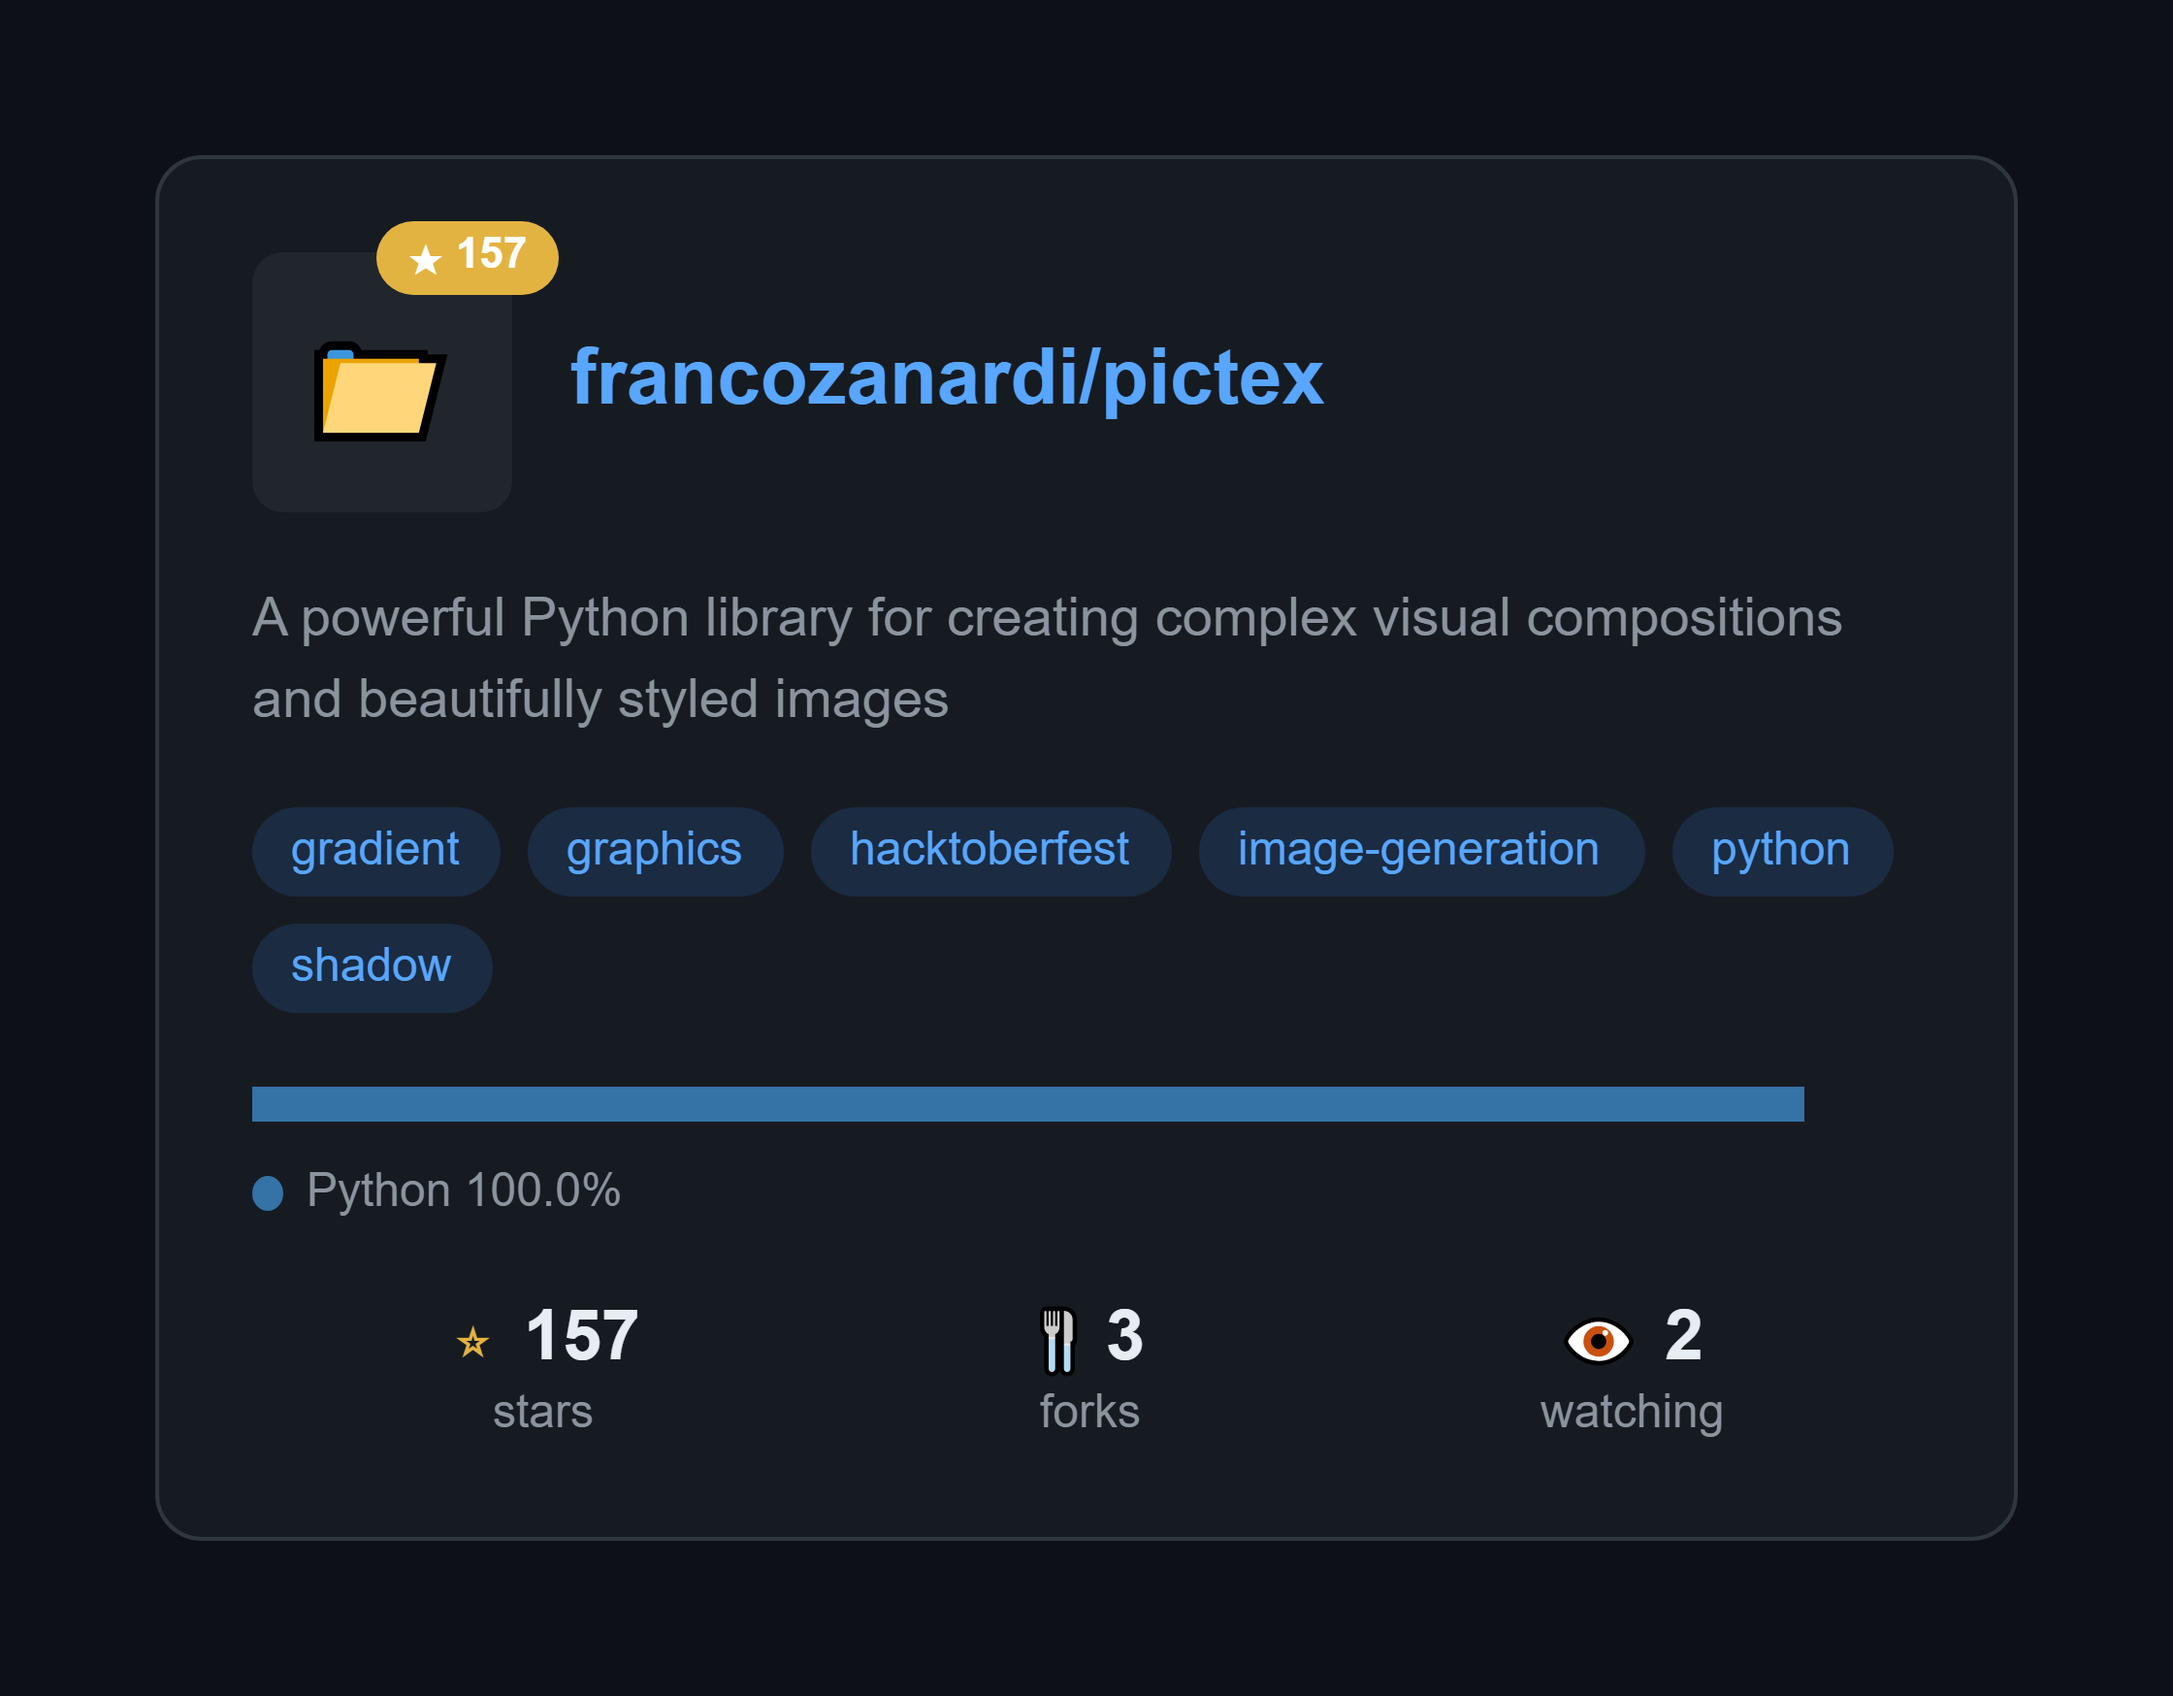
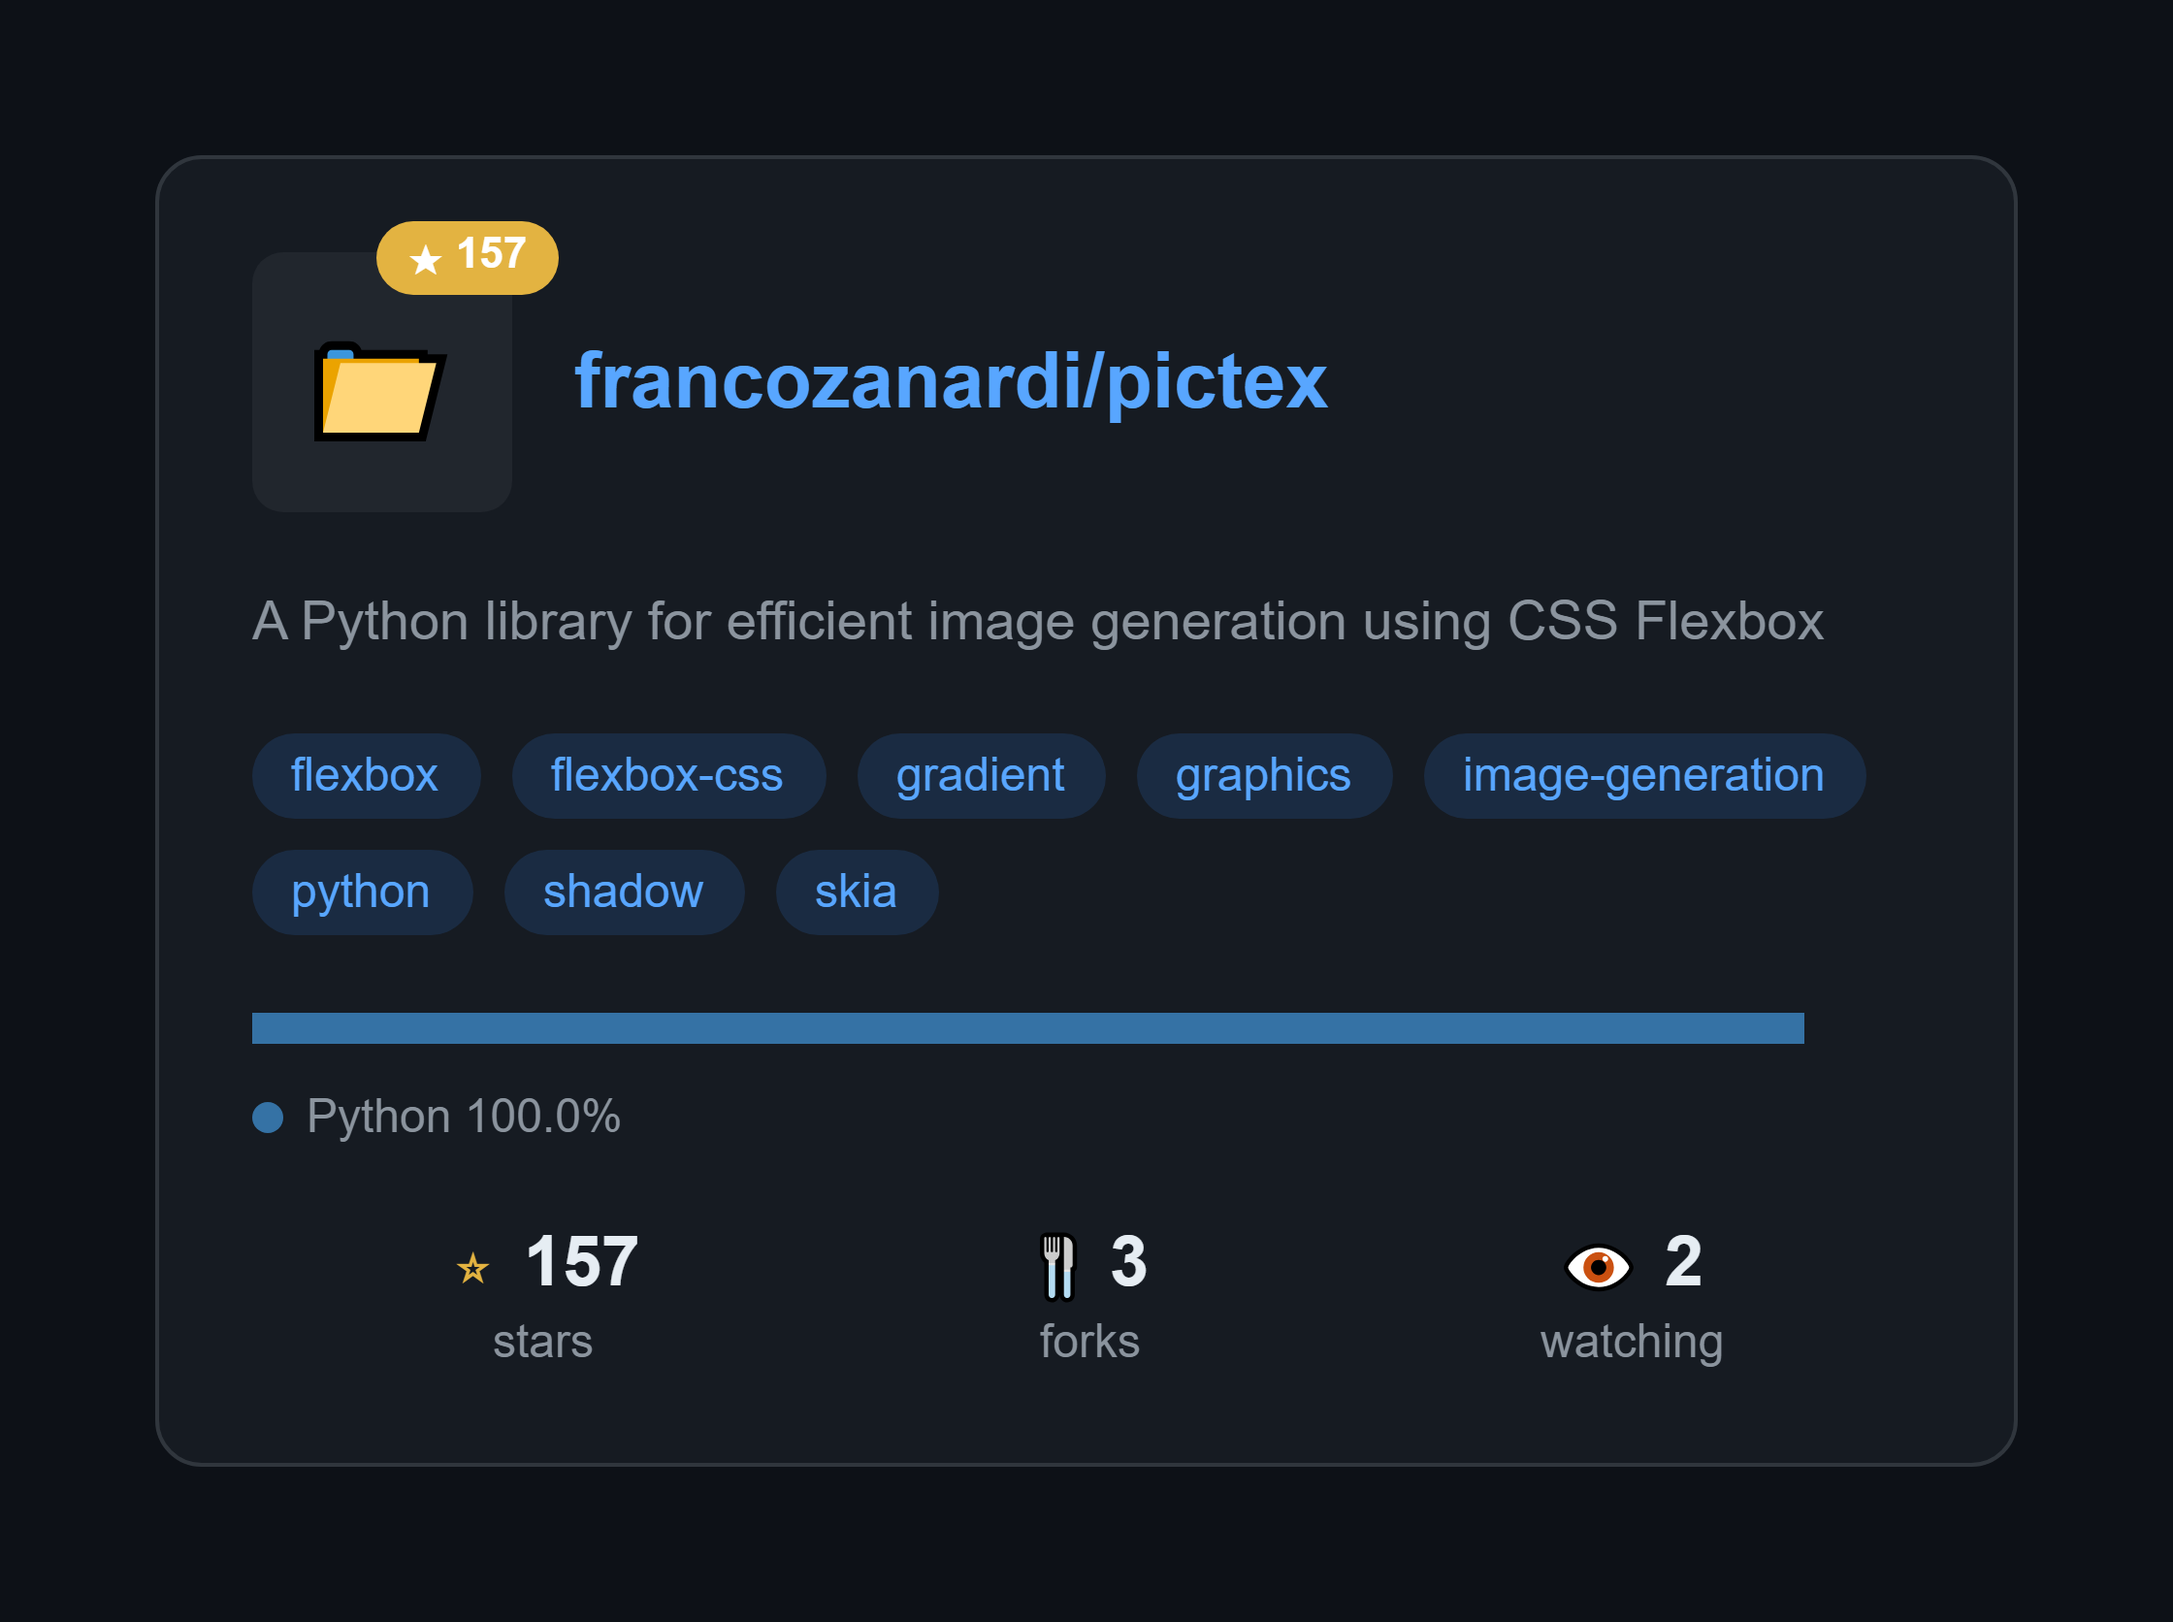
docs: clarify position API changes

diff --git a/examples/github_card/github_card.py b/examples/github_card/github_card.py
@@ -19,11 +19,7 @@ REPO = "francozanardi/pictex"
 def fetch_repo_data(repo: str) -> dict:
     """Fetch repository data from GitHub API (no auth needed for public repos)"""
     base_url = f"https://api.github.com/repos/{repo}"
-    
-    # Get repo info
     repo_data = requests.get(base_url).json()
-    
-    # Get languages
     languages = requests.get(f"{base_url}/languages").json()
     
     return {
@@ -33,7 +29,7 @@ def fetch_repo_data(repo: str) -> dict:
         "stars": repo_data.get("stargazers_count", 0),
         "forks": repo_data.get("forks_count", 0),
         "watchers": repo_data.get("subscribers_count", 0),
-        "topics": repo_data.get("topics", [])[:6],  # Limit to 6 topics
+        "topics": repo_data.get("topics", [])[:8],  # Limit to 8 topics
         "languages": languages,
         "owner_avatar": repo_data.get("owner", {}).get("avatar_url", ""),
     }
@@ -125,7 +121,6 @@ def create_language_legend(languages: dict) -> Row:
         
         items.append(Row(dot, label).align_items("center").gap(6))
     
-    # flex_wrap() for responsive layout
     return Row(*items).gap(16).flex_wrap("wrap")
 
 def create_stat(icon: str, value: str, label: str, icon_color: str = None) -> Column:
@@ -157,7 +152,6 @@ repo_icon = (
     .border_radius(8)
 )
 
-# Star badge on repo icon (absolute_position - parent relative)
 star_badge = (
     Text(f"★ {format_number(data['stars'])}")
     .font_size(11)
@@ -180,7 +174,6 @@ repo_name = (
 
 header = Row(repo_icon_with_badge, repo_name).align_items("center").gap(16)
 
-# Description (flex_grow to fill available space)
 description = (
     Text(data["description"] or "No description")
     .font_size(14)
@@ -188,26 +181,22 @@ description = (
     .line_height(1.5)
 )
 
-# Topics with flex_wrap
 topics_row = Row()
 if data["topics"]:
     topic_tags = [create_topic_tag(t) for t in data["topics"]]
     topics_row = Row(*topic_tags).gap(8).flex_wrap("wrap")
 
-# Language bar
 lang_section = Column(
     create_language_bar(data["languages"]),
     create_language_legend(data["languages"])
 ).gap(12 if data["languages"] else 0)
 
-# Stats row (needs width for justify_content to work)
 stats_row = Row(
     create_stat("⭐", format_number(data["stars"]), "stars", COLORS["star"]),
     create_stat("🍴", format_number(data["forks"]), "forks"),
     create_stat("👁", format_number(data["watchers"]), "watching"),
 ).size(width="100%").justify_content("space-around")
 
-# Main card
 card = (
     Column(
         header,
@@ -224,8 +213,6 @@ card = (
     .border_radius(12)
 )
 
-# Trending badge (fixed_position - canvas relative)
-# Only show if repo has 1000+ stars
 trending_badge = None
 if data["stars"] >= 1000:
     trending_badge = (
@@ -239,7 +226,6 @@ if data["stars"] >= 1000:
         .fixed_position(top=0, right=0)
     )
 
-# Canvas
 canvas = (
     Canvas()
     .font_family("Arial")
@@ -247,11 +233,8 @@ canvas = (
     .padding(40)
 )
 
-# Render with optional trending badge
 if trending_badge:
     result = canvas.render(card, trending_badge, scale_factor=4)
 else:
     result = canvas.render(card, scale_factor=4)
 result.save("github_card.png")
-
-print(f"Generated github_card.png for {data['full_name']}")

diff --git a/docs/MIGRATION.md b/docs/MIGRATION.md
@@ -16,25 +16,55 @@ PicTex v2.0 is a major release focused on CSS compliance and layout engine robus
 
 ### 1. Positioning API
 
-#### `absolute_position()` signature changed
+The positioning system has been completely redesigned to follow CSS standards. Both `position()` and `absolute_position()` methods have changed.
 
-The `absolute_position()` method now uses CSS-style inset properties instead of positional arguments.
+#### `position()` removed (parent-relative with anchors)
+
+The old `position(x, y, x_offset, y_offset)` method positioned elements relative to their **parent** using anchor-based coordinates. This has been replaced with CSS-style inset properties.
 
 **Before (v1.x):**
 ```python
-Text("Badge").absolute_position(10, 20)  # x=10, y=20
+# Position relative to parent with anchor
+Text("Badge").position("right", "top", x_offset=-10, y_offset=10)
+Text("Badge").position(50, 100)  # Anchor at 50px, 100px from parent
 ```
 
 **After (v2.0):**
 ```python
-# Option A: Use CSS insets (canvas-relative)
-Text("Badge").fixed_position(top=20, left=10)
-
-# Option B: Use place() for anchor-based positioning
-Text("Badge").place(10, 20)
+# Use absolute_position for parent-relative positioning with CSS insets
+Text("Badge").absolute_position(top=10, right=10)
+Text("Badge").absolute_position(top=100, left=50)
 ```
 
-The new `place()` method provides the same anchor-based positioning as the old API:
+#### `absolute_position()` signature changed (canvas-relative with anchors)
+
+The old `absolute_position(x, y, x_offset, y_offset)` method positioned elements relative to the **canvas** using anchor-based coordinates. This is now handled by `place()` or `fixed_position()`.
+
+**Before (v1.x):**
+```python
+# Position relative to canvas with anchor
+Text("Watermark").absolute_position("right", "bottom", x_offset=-20, y_offset=-20)
+Text("Overlay").absolute_position("center", "center")
+```
+
+**After (v2.0):**
+```python
+# Option A: Use place() for anchor-based canvas positioning
+Text("Watermark").place("right", "bottom", x_offset=-20, y_offset=-20)
+Text("Overlay").place("center", "center")
+
+# Option B: Use fixed_position() with CSS insets
+Text("Watermark").fixed_position(bottom=20, right=20)
+```
+
+#### Summary of positioning methods
+
+| v1.x Method | v2.0 Equivalent | Relative To |
+|-------------|-----------------|-------------|
+| `position(x, y, ...)` | `absolute_position(top=, left=, ...)` | Parent |
+| `absolute_position(x, y, ...)` | `place(x, y, ...)` or `fixed_position(...)` | Canvas |
+
+The new `place()` method provides anchor-based positioning:
 - Supports keywords: `"left"`, `"center"`, `"right"`, `"top"`, `"bottom"`
 - Supports pixels: `place(50, 100)`
 - Supports percentages: `place("25%", "75%")`
@@ -125,9 +155,10 @@ Text("Centered")
 
 ## Migration Checklist
 
-- [ ] Replace `absolute_position(x, y)` calls with either:
-  - `place(x, y)` for anchor-based positioning, or
-  - `absolute_position(top=y, left=x)` for CSS-style positioning
+- [ ] Replace `position(x, y, ...)` calls with `absolute_position(top=, left=, ...)` (parent-relative)
+- [ ] Replace `absolute_position(x, y, ...)` calls with either:
+  - `place(x, y, ...)` for anchor-based canvas positioning (recommended), or
+  - `fixed_position(top=, left=, ...)` for CSS-style canvas positioning
 - [ ] Rename layout methods:
   - `horizontal_distribution()` → `justify_content()`
   - `vertical_distribution()` → `justify_content()`

diff --git a/README.md b/README.md
@@ -1,6 +1,6 @@
 # PicTex
 
-[![PyPI version](https://badge.fury.io/py/pictex.svg?v=4)](https://pypi.org/project/pictex/)
+[![PyPI version](https://badge.fury.io/py/pictex.svg?v=5)](https://pypi.org/project/pictex/)
 [![CI Status](https://github.com/francozanardi/pictex/actions/workflows/ci.yml/badge.svg)](https://github.com/francozanardi/pictex/actions/workflows/ci.yml)
 [![Codecov](https://codecov.io/gh/francozanardi/pictex/branch/main/graph/badge.svg)](https://codecov.io/gh/francozanardi/pictex)
 [![License: MIT](https://img.shields.io/badge/License-MIT-yellow.svg)](https://opensource.org/licenses/MIT)
@@ -117,7 +117,7 @@ image.save("profile_card.png")
 
 | Preview                                                      | Description                                                                                                                                                                                                                    |
 |:-------------------------------------------------------------|:-------------------------------------------------------------------------------------------------------------------------------------------------------------------------------------------------------------------------------|
-| ![GitHub Card Example](https://res.cloudinary.com/dlvnbnb9v/image/upload/v1767559196/github_card_imhh6z.png)   | **GitHub Repository Card** <br/> Generate beautiful cards for any GitHub repo. Just change the repo name and it fetches real data from the API. <br/> **[View Code »](https://github.com/francozanardi/pictex/blob/main/examples/github_card/github_card.py)**    |
+| ![GitHub Card Example](https://res.cloudinary.com/dlvnbnb9v/image/upload/v1767576541/github_card_imhh6z.png)   | **GitHub Repository Card** <br/> Generate beautiful cards for any GitHub repo. Just change the repo name and it fetches real data from the API. <br/> **[View Code »](https://github.com/francozanardi/pictex/blob/main/examples/github_card/github_card.py)**    |
 | ![Tweet to Image Example](https://res.cloudinary.com/dlvnbnb9v/image/upload/v1754446864/tweet_ouzwyf.png)   | **Tweet to Image** <br/> Recreate the look and feel of a tweet, perfect for sharing on other social platforms. <br/> **[View Code »](https://github.com/francozanardi/pictex/blob/main/examples/tweet_card/tweet_card.py)**    |
 | ![Data Table Example](https://res.cloudinary.com/dlvnbnb9v/image/upload/v1754446872/table_t8hoyi.png)            | **Data Table** <br/> Generate a clean, styled table from a 2D list. Includes headers, zebra-striping, and shadows. <br/> **[View Code »](https://github.com/francozanardi/pictex/blob/main/examples/table/table.py)**          |
 | ![Code Snippet Example](https://res.cloudinary.com/dlvnbnb9v/image/upload/v1754446867/result_exfjqr.png?v=1) | **Code Snippet** <br/> Create beautifully syntax-highlighted images of your code snippets for tutorials or social media. <br/> **[View Code »](https://github.com/francozanardi/pictex/blob/main/examples/code_to_image/code_to_image.py)** |

diff --git a/CHANGELOG.md b/CHANGELOG.md
@@ -31,11 +31,12 @@ and this project adheres to [Semantic Versioning](https://semver.org/spec/v2.0.0
   - Supports numeric values (e.g., `16/9`, `1.618`) or string format (e.g., `"16/9"`)
 
 ### Changed
-- **BREAKING**: `absolute_position()` now uses CSS-style inset properties (`top`, `right`, `bottom`, `left`) instead of positional `(x, y)` arguments.
-  - **Migration options**:
-    1. Use `place(x, y)` for simple canvas-relative positioning with anchor support (recommended for most cases)
-    2. Use `fixed_position(top=y, left=x)` for explicit canvas-relative positioning with CSS insets
-    3. Use `absolute_position(top=y, left=x)` for parent-relative positioning (new CSS-compliant behavior)
+- **BREAKING**: `position()` method removed. This method positioned elements relative to their **parent** using anchor-based coordinates.
+  - **Migration**: Use `absolute_position(top=, left=, right=, bottom=)` with CSS insets for parent-relative positioning.
+- **BREAKING**: `absolute_position()` now uses CSS-style inset properties (`top`, `right`, `bottom`, `left`) instead of positional `(x, y)` arguments. It is now **parent-relative** (like CSS `position: absolute`).
+  - **Migration options** for old canvas-relative `absolute_position(x, y)`:
+    1. Use `place(x, y)` for anchor-based canvas positioning
+    2. Use `fixed_position(top=, left=)` for CSS-style canvas positioning
   - **Understanding the difference**:
     - `absolute_position()` is now **parent-relative** (like CSS `position: absolute`)
     - `fixed_position()` and `place()` are **canvas-relative** (like CSS `position: fixed`)
